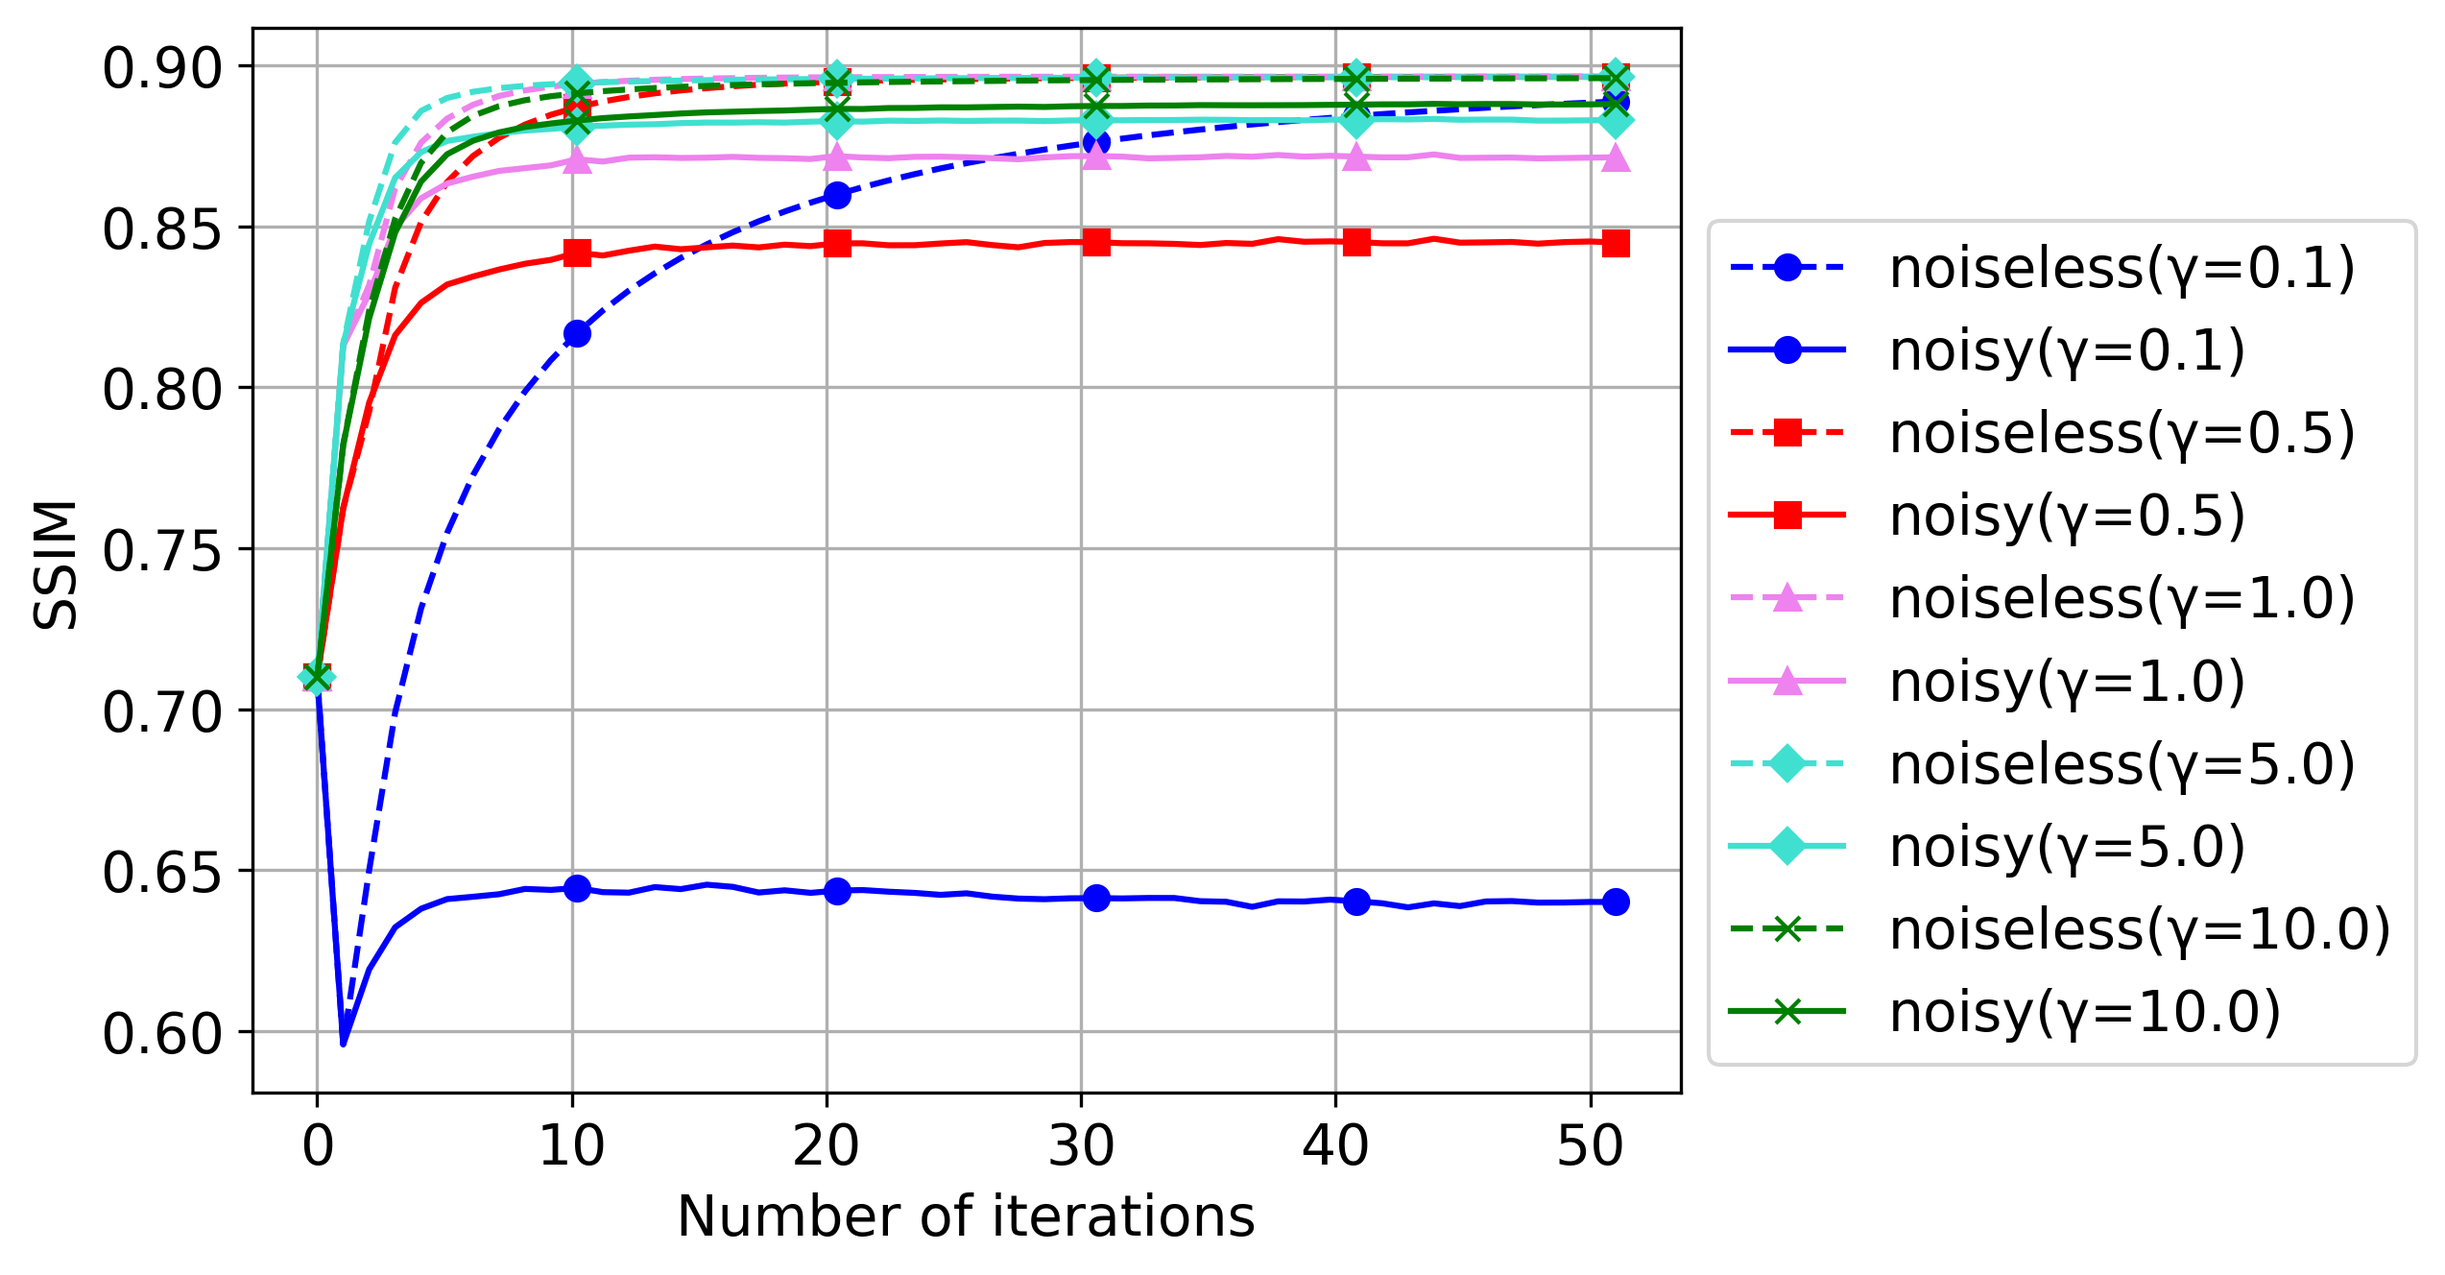
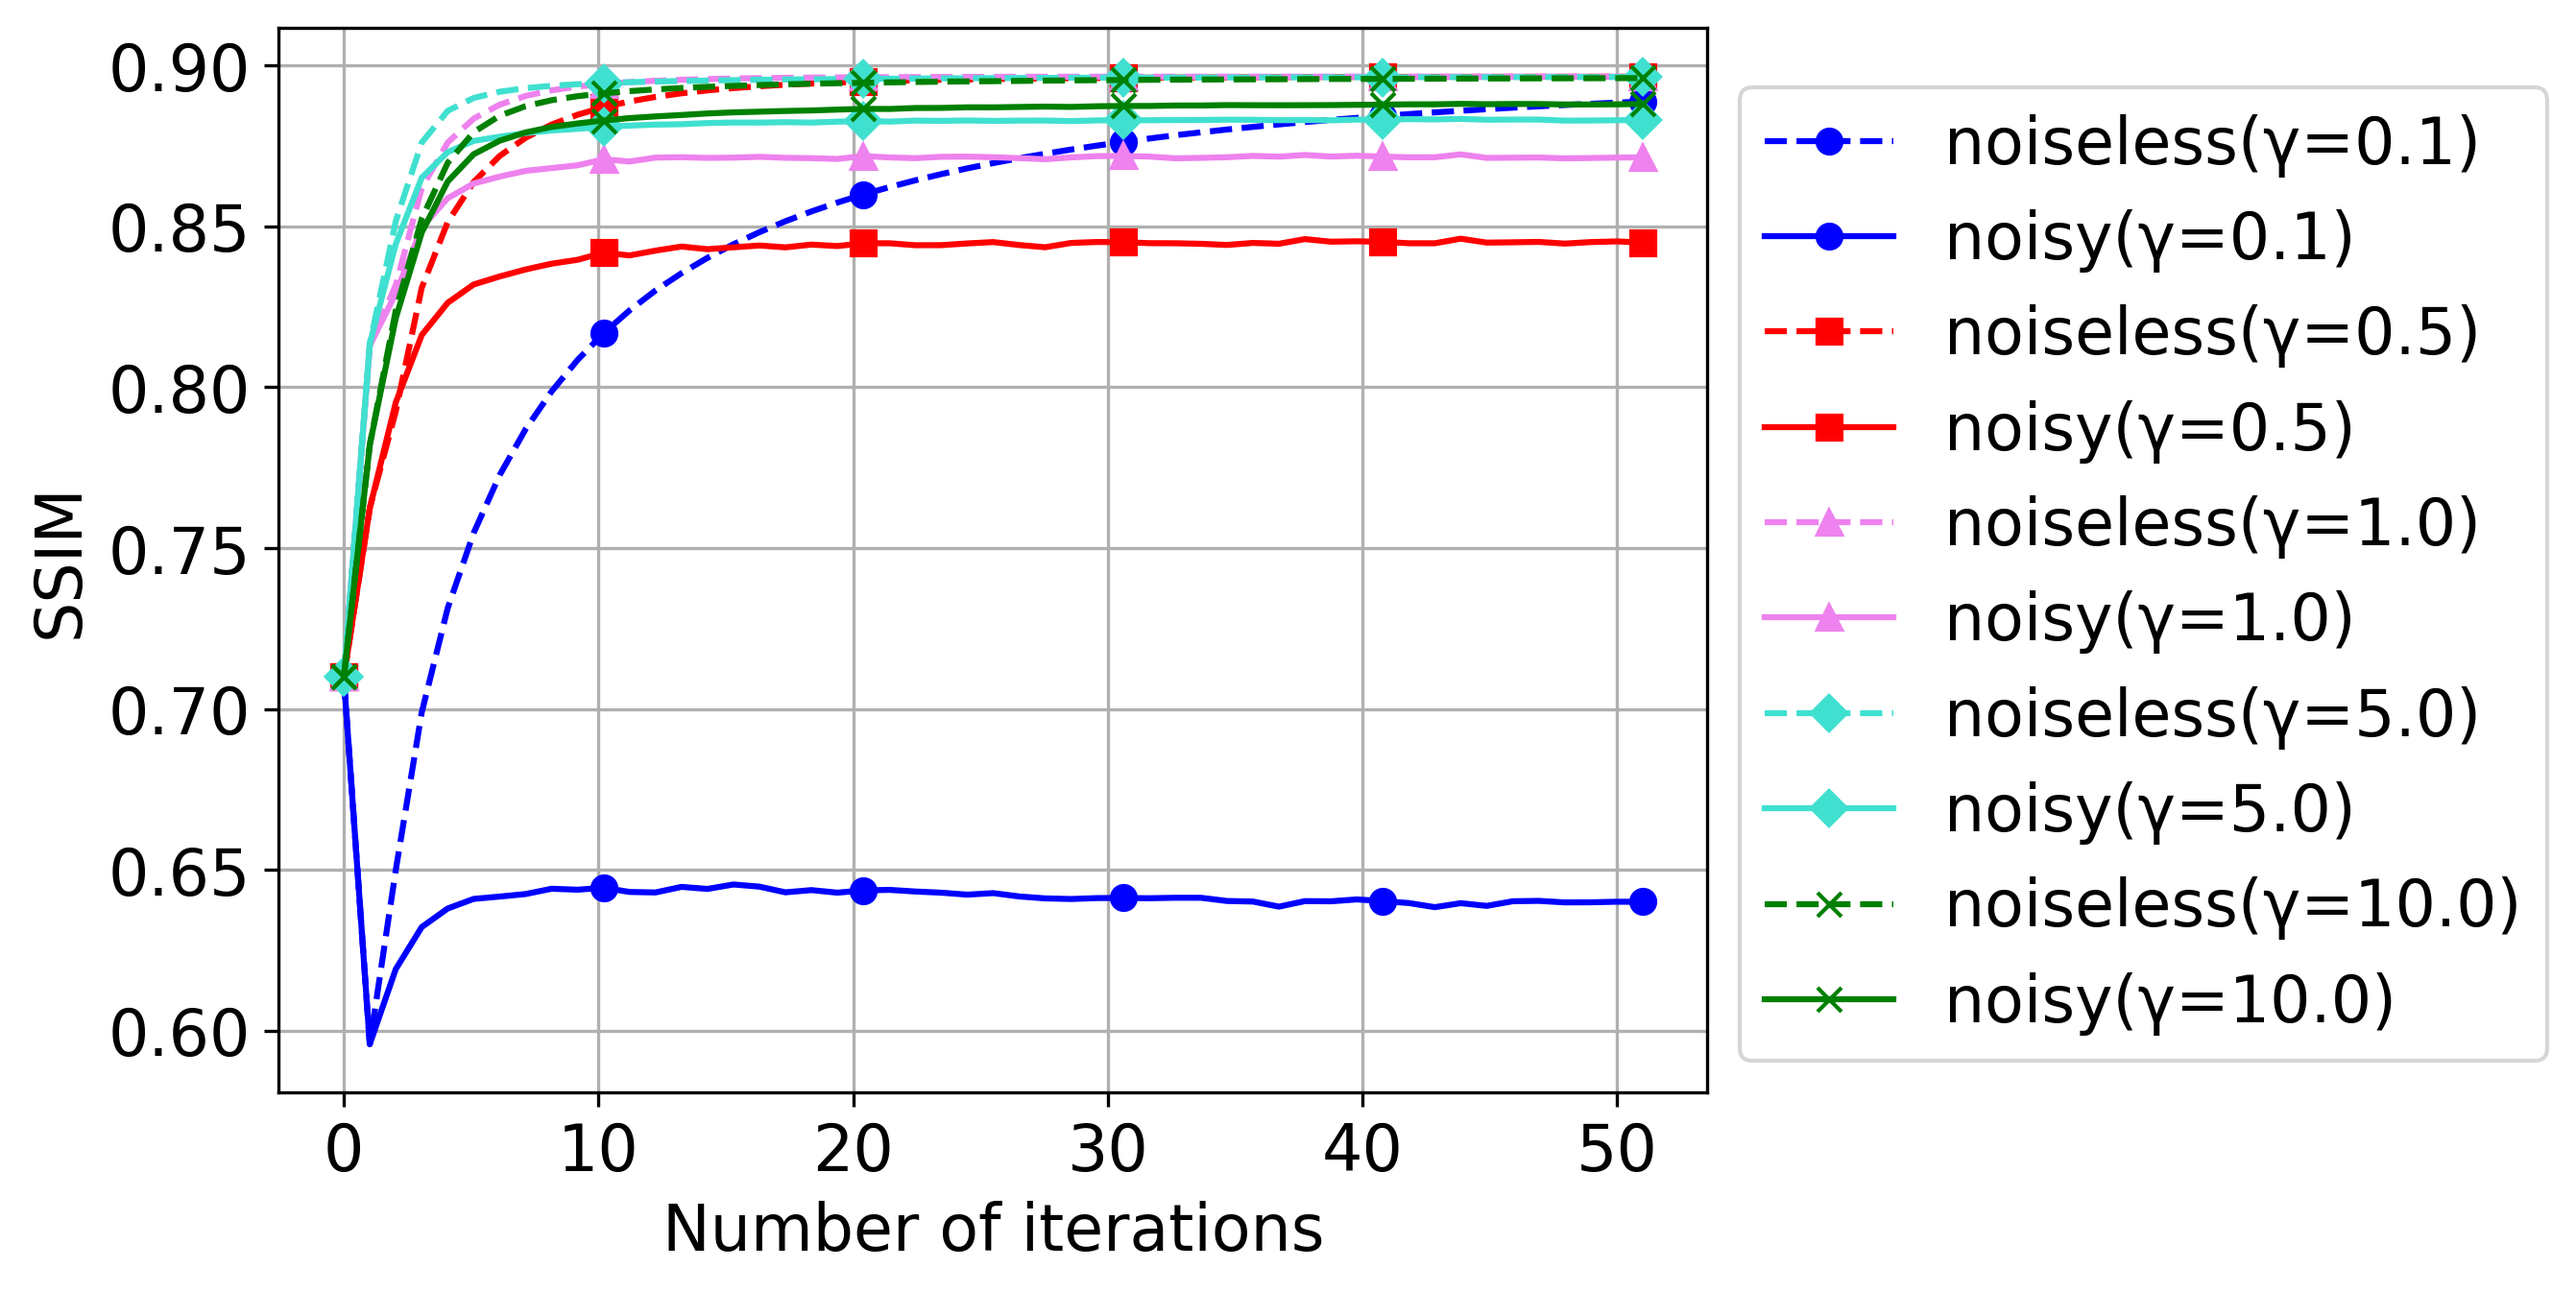
フォント変更2

diff --git a/plot.py b/plot.py
@@ -4,7 +4,7 @@ import cv2
 
 color_array=['blue','red','violet','turquoise','green']
 marker_array = ['o', 's', '^', 'D', 'x']  # 円, 四角, 上三角, ダイヤモンド, バツ
-plt.rcParams["font.size"] = 14
+plt.rcParams["font.size"] = 16
 plt.tight_layout()
 
 gam_num=5
@@ -33,7 +33,7 @@ plt.grid(which='minor')
 plt.xlabel('Number of iterations')
 plt.ylabel('PSNR')
 #plt.xticks([10,20,30,40,50],fontsize=9,color='black')
-plt.legend(loc='lower left', fontsize=14, bbox_to_anchor=(1, 0))
+plt.legend(loc='lower left', fontsize=16, bbox_to_anchor=(1, 0))
 #plt.ylim(21.5,35)
 plt.savefig('PSNR_plot.png', dpi=300, bbox_inches='tight')
 plt.show()
@@ -48,7 +48,7 @@ plt.grid(which='major')
 plt.grid(which='minor')
 plt.xlabel('Number of iterations')
 plt.ylabel('SSIM')
-plt.legend(loc='lower left', fontsize=14, bbox_to_anchor=(1, 0))
+plt.legend(loc='lower left', fontsize=16, bbox_to_anchor=(1, 0))
 #plt.ylim(0.35,0.95)
 plt.savefig('SSIM_plot.png', dpi=300, bbox_inches='tight')
 plt.show()
